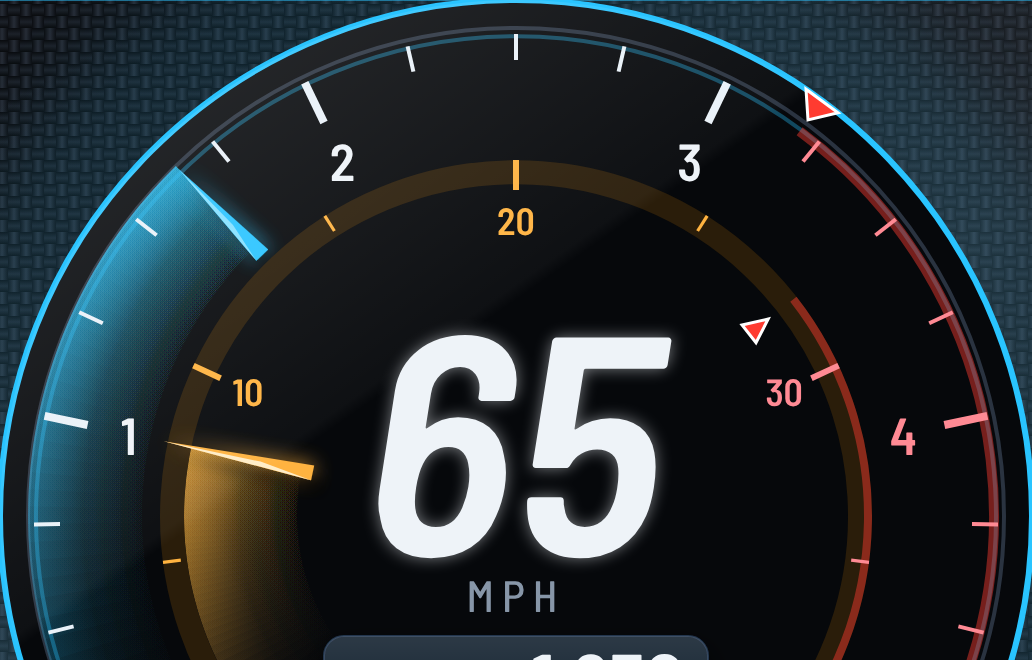
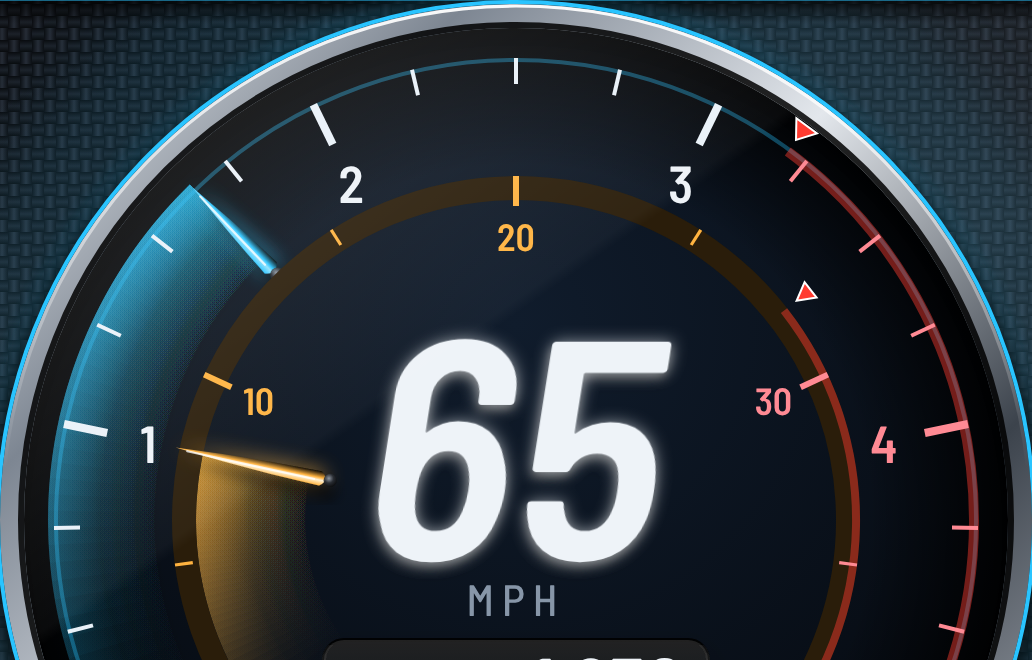
Mockups v2: P3 rounded 3D pointers, smaller inward limit markers, bezel, beveled panels, recessed windows
Claude-Session: https://claude.ai/code/session_01NB1fkpFcGY28RY4JZ8NWPC

diff --git a/docs/mockups/v2.html b/docs/mockups/v2.html
@@ -47,6 +47,7 @@ s+=`<defs>
 <linearGradient id="cw1" x1="0" y1="0" x2="1" y2="0"><stop offset="0" stop-color="#0b0d11"/><stop offset=".5" stop-color="#262c36"/><stop offset="1" stop-color="#0b0d11"/></linearGradient>
 <linearGradient id="cw2" x1="0" y1="0" x2="0" y2="1"><stop offset="0" stop-color="#090b0e"/><stop offset=".5" stop-color="#1c2129"/><stop offset="1" stop-color="#090b0e"/></linearGradient>
 <linearGradient id="sheen" x1="0" y1="0" x2="1" y2="1"><stop offset=".2" stop-color="#bfe6ff" stop-opacity="0"/><stop offset=".5" stop-color="#bfe6ff" stop-opacity=".10"/><stop offset=".8" stop-color="#bfe6ff" stop-opacity="0"/></linearGradient>
+<filter id="tshadow" x="-20%" y="-30%" width="140%" height="160%"><feDropShadow dx="0" dy="3" stdDeviation="2" flood-color="#000" flood-opacity=".85"/></filter>
 <filter id="glowU" filterUnits="userSpaceOnUse" x="0" y="0" width="1024" height="600"><feGaussianBlur stdDeviation="5"/></filter>
 <filter id="glow" x="-50%" y="-50%" width="200%" height="200%"><feGaussianBlur stdDeviation="5"/></filter>
 <filter id="glow2" x="-50%" y="-50%" width="200%" height="200%"><feGaussianBlur stdDeviation="2"/></filter>
@@ -288,7 +289,7 @@ pages.classic_trend=()=>{let o=`<rect width="1024" height="600" fill="#0d0d0f"/>
 
 
 // Premium Towing: aftermarket diesel-monitor look (carbon, segmented EGT arc, side data panels)
-pages.premium_towing=()=>{const CX=512,CY=304,RD=258;
+pages.premium_towing=()=>{const CX=512,CY=306,RD=246;
   const rpm=+(q.get('rpm')||V.rpm),bst=+(q.get('boost')||V.boost),RMAX=+(q.get('rmax')||3200),BMAX=+(q.get('bmax')||28),rHot=rpm>=RMAX,bHot=bst>=BMAX,OFF=q.get('blink')==='0';
   const hotC=on=>on&&OFF?'#5a1a20':C.red;
   const ACCS={cyan:['#29c4ff','#8fe3ff','#1b78c8','#0d3d73','#5fd4ff'],green:['#2fe37a','#9dffc4','#169a4e','#0a4424','#6af2a2'],
@@ -304,9 +305,9 @@ pages.premium_towing=()=>{const CX=512,CY=304,RD=258;
   let o=`<rect width="1024" height="600" fill="${BGS[bgk]}"/>`+(bgk=='brushed'?'<rect width="1024" height="600" fill="url(#brushed)"/>':'')+
     (bgk=='black'?'':'<rect width="1024" height="600" fill="url(#sheen)"/>')+`<rect width="1024" height="600" fill="#000" opacity="${bgk=='carbon'||bgk=='black'?0:.35}"/>`+
     `<circle cx="512" cy="300" r="310" fill="${ACC[0]}" opacity=".10" filter="url(#bloomBig)"/>`;GL.push([CX,CY,RD]);
-  const sk=(x,y,sz,t,op={})=>`<g transform="translate(${x},${y}) skewX(-9)">`+T(0,0,sz,t,{f:'C6',...op})+`</g>`;
+  const sk=(x,y,sz,t,op={})=>`<g transform="translate(${x},${y}) skewX(-9)" filter="url(#tshadow)">`+T(0,0,sz,t,{f:'C6',...op})+`</g>`;
   // top bar: time, date, TOWING, outside temp, settings
-  o+=`<rect x="0" y="0" width="1024" height="46" fill="#05080b" opacity=".85"/><line x1="0" y1="46" x2="1024" y2="46" stroke="${CY2}" stroke-opacity=".5"/>`;
+  o+=`<defs><linearGradient id="tbar" x1="0" y1="0" x2="0" y2="1"><stop offset="0" stop-color="#1a2532"/><stop offset=".5" stop-color="#0a1018"/><stop offset="1" stop-color="#04070a"/></linearGradient><linearGradient id="tsh" x1="0" y1="0" x2="0" y2="1"><stop offset="0" stop-color="#000" stop-opacity=".7"/><stop offset="1" stop-color="#000" stop-opacity="0"/></linearGradient></defs><rect x="0" y="46" width="1024" height="12" fill="url(#tsh)"/><rect x="0" y="0" width="1024" height="46" fill="url(#tbar)"/><line x1="0" y1="1" x2="1024" y2="1" stroke="#fff" stroke-opacity=".12"/><line x1="0" y1="46" x2="1024" y2="46" stroke="${CY2}" stroke-opacity=".5"/>`;
   o+=T(16,35,32,'10:10 PM',{a:'start',f:'C6'})+T(180,35,22,'Sun Nov 8',{a:'start',c:C.dim,f:'C5'})+T(CX,33,22,'TOWING',{c:C.amber,ls:6,f:'C6'});
   o+=T(940,35,32,'90°F',{a:'end',f:'C6'});
   {let g='';const x=990,y=23;for(let i=0;i<8;i++){const an=i*45,[a1,b1]=P(x,y,17,an-11),[a2,b2]=P(x,y,17,an+11);g+=`<line x1="${n1(a1)}" y1="${n1(b1)}" x2="${n1(a2)}" y2="${n1(b2)}" stroke="#dbe7f2" stroke-width="7"/>`}
@@ -318,41 +319,48 @@ pages.premium_towing=()=>{const CX=512,CY=304,RD=258;
       const[p0x,p0y]=P(CX,CY,r1,t0),[p1x,p1y]=P(CX,CY,r1,t1),[q1x,q1y]=P(CX,CY,r0,t1),[q0x,q0y]=P(CX,CY,r0,t0);
       const lg=t1-t0>180?1:0;g+=`<path d="M${n1(p0x)},${n1(p0y)} A${r1},${r1} 0 ${lg} 1 ${n1(p1x)},${n1(p1y)} L${n1(q1x)},${n1(q1y)} A${r0},${r0} 0 ${lg} 0 ${n1(q0x)},${n1(q0y)} Z" fill="url(#${id})" opacity="${op}"/>`}
     return g}
+  o+=`<defs><linearGradient id="pnl" x1="0" y1="0" x2="0" y2="1"><stop offset="0" stop-color="#18222e"/><stop offset=".55" stop-color="#0a0f15"/><stop offset="1" stop-color="#04070a"/></linearGradient>
+    <linearGradient id="pnlEdge" x1="0" y1="0" x2="0" y2="1"><stop offset="0" stop-color="${ACC[1]}"/><stop offset=".5" stop-color="${ACC[0]}"/><stop offset="1" stop-color="${ACC[3]}"/></linearGradient>
+    <linearGradient id="lcdG" x1="0" y1="0" x2="0" y2="1"><stop offset="0" stop-color="#03060a"/><stop offset="1" stop-color="#0e1824"/></linearGradient>
+    <linearGradient id="bevelLo" x1="0" y1="0" x2="0" y2="1"><stop offset="0" stop-color="#000" stop-opacity=".9"/><stop offset="1" stop-color="#fff" stop-opacity=".35"/></linearGradient></defs>`;
   // center disc
-  o+=`<circle cx="${CX}" cy="${CY}" r="${RD}" fill="#06080b" stroke="${CY2}" stroke-width="3"/><circle cx="${CX}" cy="${CY}" r="${RD-14}" fill="none" stroke="#2a3340" stroke-width="2"/>`;
+  o+=`<circle cx="${CX}" cy="${CY}" r="${RD+14}" fill="none" stroke="${CY2}" stroke-width="3" opacity=".5" filter="url(#glowU)"/><circle cx="${CX}" cy="${CY}" r="${RD}" fill="url(#face)"/><circle cx="${CX}" cy="${CY}" r="${RD}" fill="url(#faceIn)"/>`+bezel(CX,CY,RD+6,12)+`<circle cx="${CX}" cy="${CY}" r="${RD+13}" fill="none" stroke="${CY2}" stroke-width="2"/>`;
   const A0=140,SW=260;
   // light trails behind both needles (drawn on the face, under the scales)
-  o+=trail(182,RD-14,A0,A0+SW*rpm/5000,rHot?C.red:ACC[0],rHot?(OFF?.12:.95):.75,'trO')+trail(104,166,A0,A0+SW*bst/40,bHot?C.red:SEC,bHot?(OFF?.12:.95):.7,'trI');
+  o+=trail(176,RD-12,A0,A0+SW*rpm/5000,rHot?C.red:ACC[0],rHot?(OFF?.12:.95):.75,'trO')+trail(100,160,A0,A0+SW*bst/40,bHot?C.red:SEC,bHot?(OFF?.12:.95):.7,'trI');
   // outer scale: RPM with a needle
-  const RO=230,ar=v=>A0+SW*v/5;
+  const RO=220,ar=v=>A0+SW*v/5;
   o+=`<path d="${arc(CX,CY,RO+10,A0,A0+SW)}" stroke="${ACC[0]}" stroke-opacity=".35" stroke-width="2" fill="none"/>`;
   o+=`<path d="${arc(CX,CY,RO+9,ar(RMAX/1000),ar(5))}" stroke="${C.red}" stroke-width="5" fill="none" opacity=".45"/>`;
   for(let v=0;v<=5;v+=.25){const maj=v%1==0,[x1,y1]=P(CX,CY,RO+11,ar(v)),[x2,y2]=P(CX,CY,RO-(maj?11:2),ar(v));o+=`<line x1="${n1(x1)}" y1="${n1(y1)}" x2="${n1(x2)}" y2="${n1(y2)}" stroke="${v*1000>=RMAX?'#ff8a94':'#e9f1f8'}" stroke-width="${maj?4:2}"/>`}
   for(let v=0;v<=5;v++){const[x,y]=P(CX,CY,RO-32,ar(v));o+=T(x,y,26,v,{db:'central',c:v*1000>=RMAX?'#ff8a94':C.text,f:'C6'})}
-  function wedge(r0,r1,an,w,col,lite){const[bx1,by1]=P(CX,CY,r0,an-w),[bx2,by2]=P(CX,CY,r0,an+w),[tx,ty]=P(CX,CY,r1,an),[mx,my]=P(CX,CY,r0+(r1-r0)*.35,an);
-    return `<polygon points="${n1(bx1)},${n1(by1)} ${n1(tx)},${n1(ty)} ${n1(bx2)},${n1(by2)}" fill="${col}" opacity=".8" filter="url(#glowU)"/>`+
-      `<polygon points="${n1(bx1)},${n1(by1)} ${n1(tx)},${n1(ty)} ${n1(bx2)},${n1(by2)}" fill="${col}" filter="url(#nshadow)"/>`+
-      `<polygon points="${n1(bx1)},${n1(by1)} ${n1(tx)},${n1(ty)} ${n1(mx)},${n1(my)}" fill="${lite}" opacity=".9"/>`}
-  function limitMark(r,an,out){const[x0,y0]=P(CX,CY,r+(out?16:-16),an),[x1,y1]=P(CX,CY,r+(out?4:-4),an),[a1,b1]=P(CX,CY,r+(out?16:-16),an-2.2),[a2,b2]=P(CX,CY,r+(out?16:-16),an+2.2);
-    return `<polygon points="${n1(a1)},${n1(b1)} ${n1(x1)},${n1(y1)} ${n1(a2)},${n1(b2)}" fill="${C.red}" stroke="#fff" stroke-width="1.5"/>`}
+  let WD=0;function wedge(r0,r1,an,w,col,lite){const id='wd'+(WD++),[bx1,by1]=P(CX,CY,r0,an-w),[bx2,by2]=P(CX,CY,r0,an+w),[tx,ty]=P(CX,CY,r1,an);
+    const[qx,qy]=P(CX,CY,r0-5,an),[s1x,s1y]=P(CX,CY,r0+(r1-r0)*.5,an-w*.62),[s2x,s2y]=P(CX,CY,r0+(r1-r0)*.5,an+w*.62),[hx0,hy0]=P(CX,CY,r0+3,an-w*.25),[hx1,hy1]=P(CX,CY,r1-6,an-w*.08);
+    const d=`M${n1(bx1)},${n1(by1)} Q${n1(s1x)},${n1(s1y)} ${n1(tx)},${n1(ty)} Q${n1(s2x)},${n1(s2y)} ${n1(bx2)},${n1(by2)} Q${n1(qx)},${n1(qy)} ${n1(bx1)},${n1(by1)} Z`;
+    return `<defs><linearGradient id="${id}" gradientUnits="userSpaceOnUse" x1="${n1(bx1)}" y1="${n1(by1)}" x2="${n1(bx2)}" y2="${n1(by2)}"><stop offset="0" stop-color="${col}"/><stop offset=".38" stop-color="${lite}"/><stop offset=".55" stop-color="${col}"/><stop offset="1" stop-color="#000" stop-opacity=".9"/></linearGradient></defs>`+
+      `<path d="${d}" fill="${col}" opacity=".7" filter="url(#glowU)"/><path d="${d}" fill="url(#${id})" filter="url(#nshadow)"/>`+
+      `<line x1="${n1(hx0)}" y1="${n1(hy0)}" x2="${n1(hx1)}" y2="${n1(hy1)}" stroke="#fff" stroke-opacity=".75" stroke-width="1.1" stroke-linecap="round"/>`+
+      `<circle cx="${n1(qx)}" cy="${n1(qy)}" r="${(w*r0*Math.PI/180*.9).toFixed(1)}" fill="url(#hub)" opacity=".9"/>`}
+  function limitMark(r,an,out){const[x0,y0]=P(CX,CY,r+(out?13:-13),an),[x1,y1]=P(CX,CY,r+(out?4:-4),an),[a1,b1]=P(CX,CY,r+(out?13:-13),an-1.5),[a2,b2]=P(CX,CY,r+(out?13:-13),an+1.5);
+    return `<polygon points="${n1(a1)},${n1(b1)} ${n1(x1)},${n1(y1)} ${n1(a2)},${n1(b2)}" fill="${C.red}" stroke="#fff" stroke-width="1"/>`}
   o+=limitMark(RO+12,ar(RMAX/1000),true);
-  o+=wedge(182,RO+12,ar(rpm/1000),1.3,rHot?hotC(1):ACC[0],rHot?(OFF?'#5a1a20':'#ffd0d4'):ACC[1]);
+  o+=wedge(176,RO+12,ar(rpm/1000),1.35,rHot?hotC(1):ACC[0],rHot?(OFF?'#5a1a20':'#ffd0d4'):ACC[1]);
   // inner scale: BOOST with its own needle
-  const RI=172,ab=v=>A0+SW*v/40;
+  const RI=166,ab=v=>A0+SW*v/40;
   o+=`<path d="${arc(CX,CY,RI,A0,A0+SW)}" stroke="#2a1d0a" stroke-width="12" fill="none"/>`;
   o+=`<path d="${arc(CX,CY,RI+4,ab(BMAX),ab(40))}" stroke="${C.red}" stroke-width="4" fill="none" opacity=".45"/>`;
   for(let v=0;v<=40;v+=5){const maj=v%10==0,[x1,y1]=P(CX,CY,RI+6,ab(v)),[x2,y2]=P(CX,CY,RI-(maj?9:3),ab(v));o+=`<line x1="${n1(x1)}" y1="${n1(y1)}" x2="${n1(x2)}" y2="${n1(y2)}" stroke="${v>=BMAX?'#ff8a94':SEC}" stroke-width="${maj?3:1.6}"/>`}
   for(let v=0;v<=40;v+=10){const[x,y]=P(CX,CY,RI-24,ab(v));o+=T(x,y,19,v,{db:'central',c:v>=BMAX?'#ff8a94':SEC,f:'C6'})}
-  o+=limitMark(RI-8,ab(BMAX),false);
-  o+=wedge(104,RI+8,ab(bst),2.1,bHot?hotC(1):SEC,bHot?(OFF?'#5a1a20':'#ffd0d4'):'#fff3d6');
+  o+=limitMark(RI+8,ab(BMAX),true);
+  o+=wedge(100,RI+8,ab(bst),2.1,bHot?hotC(1):SEC,bHot?(OFF?'#5a1a20':'#ffd0d4'):'#fff3d6');
   // speed, big; RPM digits with boost under them
   o+=sk(CX-6,CY+20,156,V.mph)+T(CX,CY+48,22,'MPH',{c:C.dim,ls:4,f:'C5'});
-  o+=`<rect x="${CX-96}" y="${CY+60}" width="192" height="88" rx="10" fill="#0f1b2a" stroke="#22364d"/>`+T(CX,CY+168,15,'RPM ×1000  ·  BOOST psi',{c:C.dim,f:'C5'});
+  o+=`<rect x="${CX-96}" y="${CY+60}" width="192" height="88" rx="10" fill="url(#lcdG)"/><rect x="${CX-96}" y="${CY+60}" width="192" height="88" rx="10" fill="url(#recess)"/><rect x="${CX-96}" y="${CY+60}" width="192" height="88" rx="10" fill="none" stroke="url(#bevelLo)" stroke-width="2"/>`+T(CX,CY+168,15,'RPM ×1000  ·  BOOST psi',{c:C.dim,f:'C5'});
   o+=T(CX-84,CY+86,17,'RPM',{a:'start',c:C.dim,f:'C5'})+T(CX+84,CY+96,38,fmt(rpm),{a:'end',f:'C6',c:rHot?hotC(1):C.text});
   o+=`<line x1="${CX-84}" y1="${CY+106}" x2="${CX+84}" y2="${CY+106}" stroke="#22364d"/>`;
   o+=T(CX-84,CY+134,17,'BOOST',{a:'start',c:SEC,f:'C5'})+T(CX+84,CY+138,30,bst.toFixed(1)+' psi',{a:'end',f:'C6',c:bHot?hotC(1):SEC});
   // gear below the circle
-  o+=`<rect x="${CX-62}" y="${CY+182}" width="124" height="60" rx="10" fill="#0f1b2a" stroke="#22364d"/>`+T(CX-48,CY+219,18,'GEAR',{a:'start',c:C.dim,f:'C5',ls:2})+T(CX+46,CY+229,48,V.gear,{a:'end',f:'C6'});
+  o+=`<rect x="${CX-62}" y="${CY+182}" width="124" height="60" rx="10" fill="url(#lcdG)"/><rect x="${CX-62}" y="${CY+182}" width="124" height="60" rx="10" fill="url(#recess)"/><rect x="${CX-62}" y="${CY+182}" width="124" height="60" rx="10" fill="none" stroke="url(#bevelLo)" stroke-width="2"/>`+T(CX-48,CY+219,18,'GEAR',{a:'start',c:C.dim,f:'C5',ls:2})+T(CX+46,CY+229,48,V.gear,{a:'end',f:'C6'});
   // Premium vertical bar: outline frame, red zone fading down, fill fading down from a bright top edge, pointer wedge,
   // dividers, tube shading, scale numbers, and this drive's min-max as a bracket outside the frame.
   let RB=0;
@@ -386,7 +394,10 @@ pages.premium_towing=()=>{const CX=512,CY=304,RD=258;
   const Rr=[['FUEL',70,'%',[0,100,null,68,81]],['LOAD',42,'%',[0,100,null,18,96]],['RAIL',26.5,'KPSI',[0,30,null,5,29]],['VGT',null,'',null]];
   [[L,true],[Rr,false]].forEach(([items,left])=>items.forEach(([lab,val,u,rng],i)=>{const w=228,h=126,y=56+i*(h+9),x=left?6:1018-w;
     const pts=left?`${x},${y} ${x+w-24},${y} ${x+w},${y+h/2} ${x+w-24},${y+h} ${x},${y+h}`:`${x+24},${y} ${x+w},${y} ${x+w},${y+h} ${x+24},${y+h} ${x},${y+h/2}`;
-    o+=`<polygon points="${pts}" fill="#06080bcc" stroke="${CY2}" stroke-width="2"/>`;
+    {const mx=x+w/2,my=y+h/2,sx=(w-7)/w,sy=(h-7)/h;
+     o+=`<polygon points="${pts}" fill="#000" opacity=".8" filter="url(#dshadow)"/><polygon points="${pts}" fill="url(#pnl)"/><polygon points="${pts}" fill="url(#gloss)"/>`+
+        `<polygon points="${pts}" fill="none" stroke="url(#pnlEdge)" stroke-width="3"/>`+
+        `<polygon points="${pts}" fill="none" stroke="url(#bevelHi)" stroke-width="1.3" vector-effect="non-scaling-stroke" transform="translate(${mx},${my}) scale(${sx.toFixed(3)},${sy.toFixed(3)}) translate(${-mx},${-my})"/>`}
     const bx=left?x+20:x+w-44,cx=x+w/2+(left?28:-28);
     if(lab=='VGT'){const cmd=45,act=V.vgt,diff=act-cmd,dc=Math.abs(diff)>=10?C.red:Math.abs(diff)>=5?C.amber:C.green;
       o+=T(x+100,y+28,22,'VGT VANE',{f:'C6',c:'#dbe7f2',ls:2});
@@ -482,7 +493,7 @@ pg=pg.replace(/<path d="([^"]+)" stroke="([^"]+)" stroke-width="(\d+)" fill="non
   const dark=/^#1/.test(st);return `<path d="${d}" stroke="#000" stroke-opacity=".6" stroke-width="${w+6}" fill="none" filter="url(#bloom)" transform="translate(0,4)"/>`+m+
   `<path d="${d}" stroke="#fff" stroke-opacity="${dark?.05:.28}" stroke-width="${(w*.28).toFixed(1)}" fill="none"/>`});
 // panels, cards and buttons float with a shadow and a top gloss
-pg=pg.replace(/<rect x="([\d.]+)" y="([\d.]+)" width="(\d+)" height="(\d+)" rx="(\d+)" fill="([^"]+)"([^>]*)\/>/g,(m,x,y,w,h,r,f,rest)=>{if(+h<40||+w<100||/url\(#(recess|face|paper)/.test(f)||f=='#000')return m;
+pg=pg.replace(/<rect x="([\d.]+)" y="([\d.]+)" width="(\d+)" height="(\d+)" rx="(\d+)" fill="([^"]+)"([^>]*)\/>/g,(m,x,y,w,h,r,f,rest)=>{if(+h<40||+w<100||/url\(#(recess|face|paper|lcdG)/.test(f)||f=='#000')return m;
   return `<rect x="${x}" y="${y}" width="${w}" height="${h}" rx="${r}" fill="${f}"${rest} filter="url(#dshadow)"/><rect x="${x}" y="${y}" width="${w}" height="${h}" rx="${r}" fill="url(#gloss)"/>`});
 pg=pg.replace(/<polygon points="([^"]+)" fill="#06080bcc"([^>]*)\/>/g,(m,pts,rest)=>`<polygon points="${pts}" fill="#06080bdd"${rest} filter="url(#dshadow)"/><polygon points="${pts}" fill="url(#gloss)"/>`);
 // light spill behind lit dials, brushed panel for Classic

diff --git a/docs/mockups/v2/KEY.md b/docs/mockups/v2/KEY.md
@@ -7,7 +7,7 @@ renders are in `numbered/`.
 |---|---|
 | **P1** Premium Daily | 1 tach that wraps into the top bar · 2 gear dial · 3 center card (boost/trans/MPG) · 4 speedo · 5 odometer · 6 coolant · 7 fuel % and range · 8 clock/date bar |
 | **P2** Premium Sport | 1 big center tach · 2 speed · 3 gear · 4 red-zone glow · 5 coolant bar · 6 trans bar · 7 boost bar · 8 oil bar |
-| **P3** Premium Towing (rev 3) | 1 speed (big, center) · 2 slim RPM pointer across the light trail (thin base inside, point at the rim) with a light trail (lit wedge on the face from 0 to the pointer) · 3 slim boost pointer across its trail on the inner scale with its own light trail. Each has a user alarm limit (red marker; a thin soft red line from there up); at or above it the whole trail, the pointer and the digits turn red (`premium_towing_alarm.png`, limits popup `premium_towing_limits.png`) · 4 RPM digits with boost under them · 5 gear (bottom of the circle) · 6 left panels (intake/trans/coolant/oil) · 7 right panels (fuel/load/rail/VGT) · 8 premium vertical bars: outline frame, red zone fading down, fill fading down from a bright top edge, pointer at now, scale min/max, this drive's min–max bracket (also under the value) · 9 VGT vane: CMD, ACT and DIFF (amber at 5%, red at 10%) · 10 top bar: time, date, page, outside temp, settings |
+| **P3** Premium Towing (rev 3) | 1 speed (big, center) · 2 slim rounded 3D RPM pointer across the light trail (shaded like a polished needle, cap at the base, point at the rim) with a light trail (lit wedge on the face from 0 to the pointer) · 3 slim boost pointer across its trail on the inner scale with its own light trail. Each has a user alarm limit (small red marker outside its scale, pointing in; a thin soft red line from there up); at or above it the whole trail, the pointer and the digits turn red (`premium_towing_alarm.png`, limits popup `premium_towing_limits.png`) · 4 RPM digits with boost under them · 5 gear (bottom of the circle) · 6 left panels (intake/trans/coolant/oil) · 7 right panels (fuel/load/rail/VGT) · 8 premium vertical bars: outline frame, red zone fading down, fill fading down from a bright top edge, pointer at now, scale min/max, this drive's min–max bracket (also under the value) · 9 VGT vane: CMD, ACT and DIFF (amber at 5%, red at 10%) · 10 top bar: time, date, page, outside temp, settings |
 | **P4** Premium Economy | 1 open-arc tach · 2 speed · 3 gear · 4 fuel bar · 5 fuel % and range · 6 trip/tank boxes · 7 MPG bar with tank-avg marker · 8 MPG now/trip/last 10 · 9 telltales |
 | **P5** Premium Trend | 1 channel list · 2 live values · 3 chart · 4 tap cursor · 5 min/avg/max · 6 time window buttons |
 | **C1** Classic Daily | 1 digital speed/gear window · 2 sweep speedo · 3 odometer · 4 round tach · 5 temp/trans window · 6 boost/fuel window · 7 clock |
@@ -35,3 +35,9 @@ Every reading's red line is settable (Settings > Alarm limits, or press and hold
 
 Any reading at or over its limit blinks its red at 3 Hz (on 167 ms, off 167 ms): the center trails, pointers and
 digits, and the side panels' value and bar fill. See `premium_towing_alarm_blink.gif`; render the off phase with `&blink=0`.
+
+## 3D treatment (P3)
+
+Chrome bezel and sunken face on the center gauge, beveled side panels (accent edge lit from the top, inner highlight,
+top-to-bottom fill, drop shadow), RPM/boost and gear windows set into the face, shaded top bar with a shadow under
+it, raised shadow on the big numbers.
